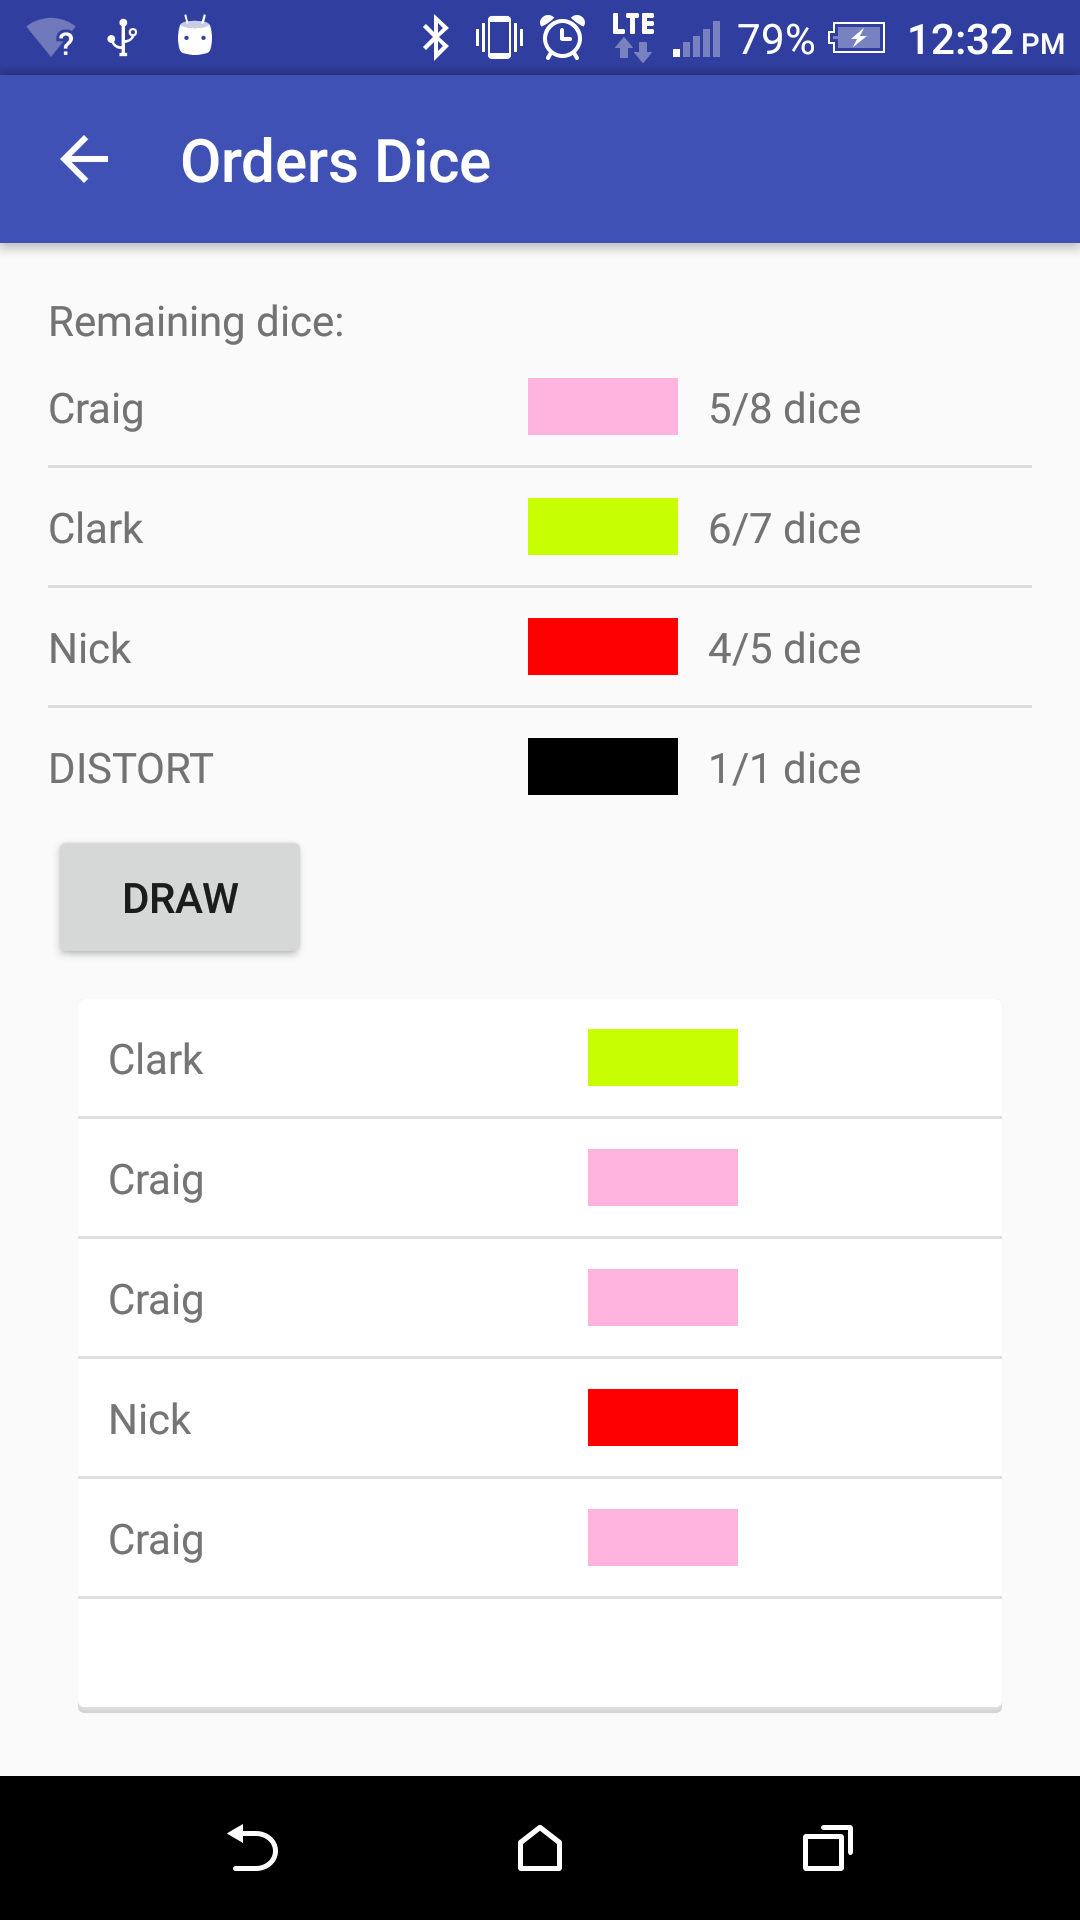
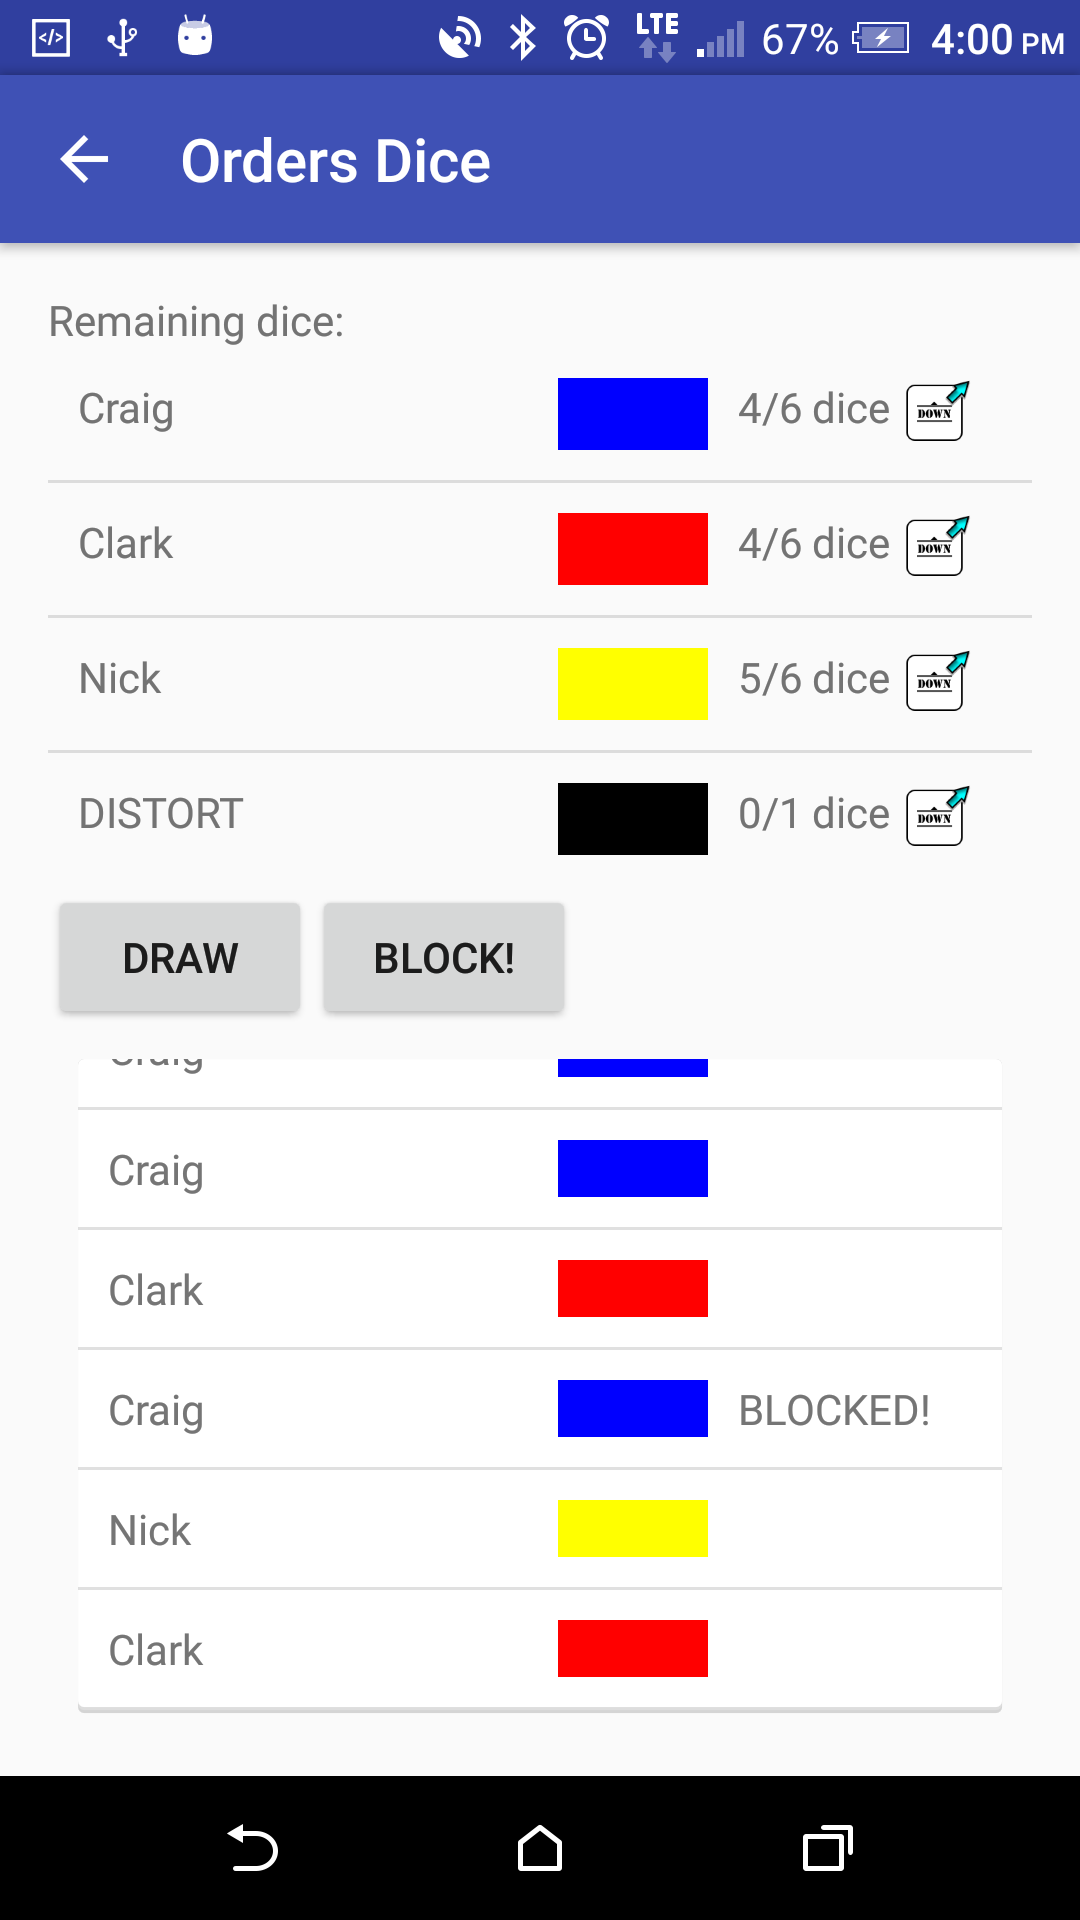
Pull dice button #6

diff --git a/app/src/main/java/com/geeksong/ordersdice/PlayerArrayAdapter.java b/app/src/main/java/com/geeksong/ordersdice/PlayerArrayAdapter.java
@@ -6,6 +6,8 @@ import android.view.LayoutInflater;
 import android.view.View;
 import android.view.ViewGroup;
 import android.widget.ArrayAdapter;
+import android.widget.ImageButton;
+import android.widget.ImageView;
 import android.widget.TextView;
 
 import java.util.ArrayList;
@@ -16,6 +18,7 @@ public class PlayerArrayAdapter extends ArrayAdapter<Player> {
     private PlayerList playerList;
     private static LayoutInflater inflater = null;
     private int textViewResourceId;
+    private IUpdatable updateOnClick;
     private ArrayList<Integer> selectedPlayerPositions = new ArrayList<>();
 
     public PlayerArrayAdapter(Activity activity, int textViewResourceId, PlayerList playerList) {
@@ -23,6 +26,7 @@ public class PlayerArrayAdapter extends ArrayAdapter<Player> {
 
         this.playerList = playerList;
         this.textViewResourceId = textViewResourceId;
+        this.updateOnClick = (activity instanceof IUpdatable) ? (IUpdatable) activity : null;
 
         inflater = (LayoutInflater) activity.getSystemService(Context.LAYOUT_INFLATER_SERVICE);
     }
@@ -60,6 +64,7 @@ public class PlayerArrayAdapter extends ArrayAdapter<Player> {
         public TextView colour;
         public TextView currentDiceCount;
         public TextView initialDiceCount;
+        public ImageView pullDiceButton;
     }
 
     public View getView(int position, View convertView, ViewGroup parent) {
@@ -73,18 +78,31 @@ public class PlayerArrayAdapter extends ArrayAdapter<Player> {
             holder.colour = (TextView) vi.findViewById(R.id.playerColour);
             holder.currentDiceCount = (TextView) vi.findViewById(R.id.currentDiceCount);
             holder.initialDiceCount = (TextView) vi.findViewById(R.id.initialDiceCount);
+            holder.pullDiceButton = (ImageView) vi.findViewById(R.id.pullDiceButton);
 
             vi.setTag(holder);
         } else {
             holder = (ViewHolder) vi.getTag();
         }
 
-        Player player = playerList.getByPosition(position);
+        final Player player = playerList.getByPosition(position);
         if(player != null) {
             holder.name.setText(player.getName());
             holder.colour.setBackgroundColor(player.getColour());
             holder.currentDiceCount.setText(String.valueOf(player.getCurrentDiceCount()));
             holder.initialDiceCount.setText(String.valueOf(player.getInitialDiceCount()));
+
+            if(holder.pullDiceButton != null) {
+                holder.pullDiceButton.setOnClickListener(new View.OnClickListener() {
+                    @Override
+                    public void onClick(View v) {
+                        player.temporarilyRemoveDice();
+
+                        if(updateOnClick != null)
+                            updateOnClick.update();
+                    }
+                });
+            }
         }
 
         return vi;

diff --git a/app/src/main/java/com/geeksong/ordersdice/DiceRollingActivity.java b/app/src/main/java/com/geeksong/ordersdice/DiceRollingActivity.java
@@ -10,7 +10,7 @@ import android.view.View;
 import android.widget.AbsListView;
 import android.widget.ListView;
 
-public class DiceRollingActivity extends AppCompatActivity {
+public class DiceRollingActivity extends AppCompatActivity implements IUpdatable {
     public static final String PlayerList = "DiceRolling.PlayerList";
     public static final String DiceList = "DiceRolling.DiceList";
 
@@ -44,7 +44,7 @@ public class DiceRollingActivity extends AppCompatActivity {
         drawnDiceListView.setAdapter(drawnDiceAdapter);
 
         final ListView remainingDiceListView = (ListView) findViewById(R.id.remainingDiceList);
-        playerAdapter = new PlayerArrayAdapter(this, R.layout.player_options_item, playerList);
+        playerAdapter = new PlayerArrayAdapter(this, R.layout.player_draw_item, playerList);
         remainingDiceListView.setAdapter(playerAdapter);
         remainingDiceListView.setChoiceMode(ListView.CHOICE_MODE_MULTIPLE_MODAL);
         remainingDiceListView.setMultiChoiceModeListener(new AbsListView.MultiChoiceModeListener() {
@@ -109,15 +109,17 @@ public class DiceRollingActivity extends AppCompatActivity {
         findViewById(R.id.nextRound).setVisibility(View.VISIBLE);
     }
 
-    private void addDrawnPlayerToUi(Player player) {
-        if(player != null) {
-            drawnDiceList.addDrawnPlayer(player.getId());
-            drawnDiceAdapter.notifyDataSetChanged();
-
-            playerAdapter.notifyDataSetChanged();
-        }
-
+    public void update() {
+        drawnDiceAdapter.notifyDataSetChanged();
+        playerAdapter.notifyDataSetChanged();
         checkDiceInBag();
+    }
+
+    private void addDrawnPlayerToUi(Player player) {
+        if(player != null)
+            drawnDiceList.addDrawnPlayer(player.getId());
+
+        update();
     }
 
     public void drawButtonClick(View v) {

diff --git a/app/src/main/java/com/geeksong/ordersdice/PlayerEditActivity.java b/app/src/main/java/com/geeksong/ordersdice/PlayerEditActivity.java
@@ -1,5 +1,6 @@
 package com.geeksong.ordersdice;
 
+import android.content.Context;
 import android.content.Intent;
 import android.graphics.Color;
 import android.support.v4.app.NavUtils;
@@ -10,6 +11,7 @@ import android.text.Editable;
 import android.text.TextWatcher;
 import android.view.MenuItem;
 import android.view.View;
+import android.view.inputmethod.InputMethodManager;
 import android.widget.Button;
 import android.widget.EditText;
 import android.widget.NumberPicker;
@@ -133,5 +135,14 @@ public class PlayerEditActivity extends AppCompatActivity {
         this.setResult(RESULT_OK, intent);
 
         super.finish();
+    }
+
+    public void clearName(View view) {
+        EditText playerName = (EditText)findViewById(R.id.playerName);
+        playerName.setText("");
+
+        // bring up the keyboard
+        InputMethodManager manager = (InputMethodManager) getSystemService(Context.INPUT_METHOD_SERVICE);
+        manager.showSoftInput(playerName, InputMethodManager.SHOW_IMPLICIT);
     }
 }

diff --git a/app/src/main/java/com/geeksong/ordersdice/IUpdatable.java b/app/src/main/java/com/geeksong/ordersdice/IUpdatable.java
@@ -1,0 +1,5 @@
+package com.geeksong.ordersdice;
+
+public interface IUpdatable {
+    void update();
+}
